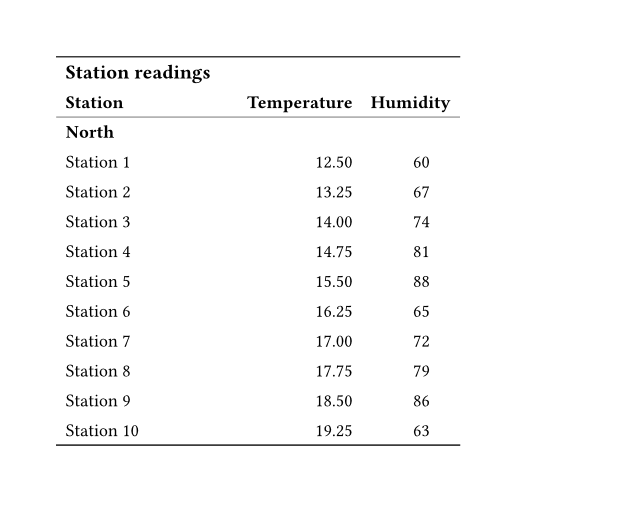
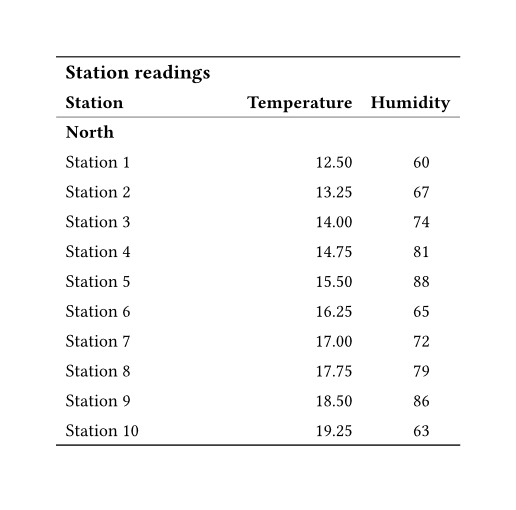
chore: fit the breakable page width too

diff --git a/CONTRIBUTING.md b/CONTRIBUTING.md
@@ -55,7 +55,7 @@ Set every test page to grow with what it holds, so a rendered image is the table
 #set page(width: auto, height: auto, margin: 0.5cm)
 ```
 
-`tests/visual/breakable.typ` is the only exception, and the only one there can be: a page that grows never breaks, and breaking is what it tests.
+Every page fits its width, with no exception. `tests/visual/breakable.typ` fixes its height alone, because a page that grows never breaks and breaking is what it tests.
 
 After changing a visual test, regenerate the images the documentation shows:
 
